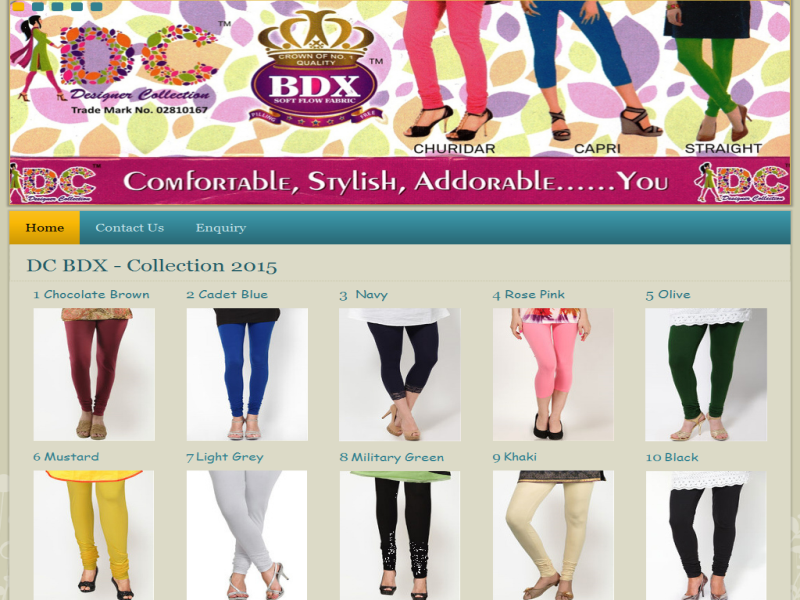
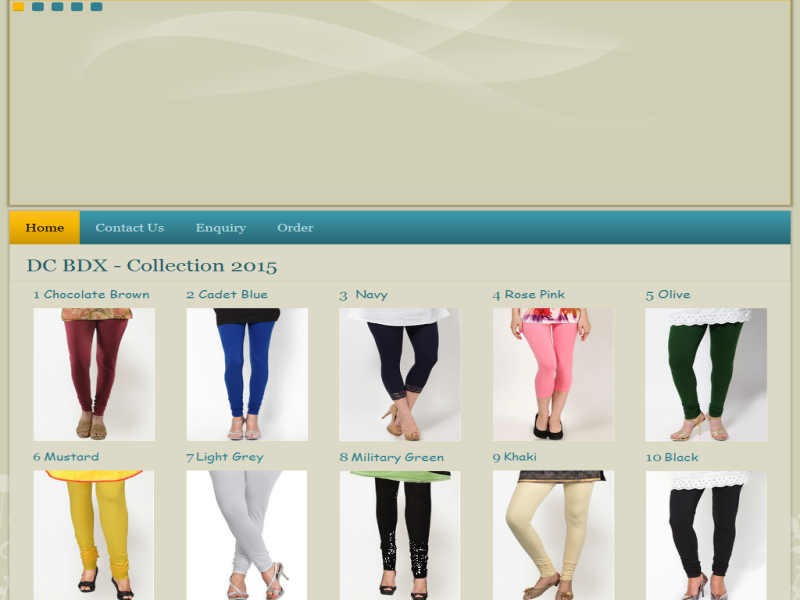
Add Order
Add Order Form

diff --git a/Order.html b/Order.html
@@ -1,40 +1,111 @@
-<!DOCTYPE HTML PUBLIC "-//W3C//DTD HTML 4.01 Transitional//EN">
-<html>
-<head>
-<title>Untitled</title>
-<meta http-equiv="content-type" content="text/html; charset=iso-8859-1">
-<meta name="generator" content="Web Page Maker">
+<!DOCTYPE html>
+<html dir="ltr" lang="en-US"><head><!-- Created by Artisteer v4.1.0.59861 -->
+    <meta charset="utf-8">
+    <title>New Page</title>
+    <meta name="viewport" content="initial-scale = 1.0, maximum-scale = 1.0, user-scalable = no, width = device-width">
+
+    <!--[if lt IE 9]><script src="https://html5shiv.googlecode.com/svn/trunk/html5.js"></script><![endif]-->
+    <link rel="stylesheet" href="style.css" media="screen">
+    <!--[if lte IE 7]><link rel="stylesheet" href="style.ie7.css" media="screen" /><![endif]-->
+    <link rel="stylesheet" href="style.responsive.css" media="all">
+
+
+    <script src="jquery.js"></script>
+    <script src="script.js"></script>
+    <script src="script.responsive.js"></script>
+<meta name="description" content="DCBDXLeggings">
+<meta name="keywords" content="Leggings,Capri,Ankle,Churidar,Straight">
+
+
 </head>
 <body>
-<div id="iFrame1div" style="position:absolute; left:0px; top:0px; z-index:0">
-<table border="0" cellpadding="0" cellspacing="0" width=802>
-<tr><td>
-<iframe name="iFrame1" width="780" height="1061" src="http://goo.gl/forms/PGQ90nuLPQ" scrolling="yes" frameborder="0"></iframe>
+<div id="art-main">
+<header class="art-header">
+<div class="art-slider art-slidecontainerheader" data-width="1000" data-height="350">
+    <div class="art-slider-inner">
+<div class="art-slide-item art-slideheader0">
 
-</td><td align="center" valign="middle" width="22"><img src="images//arrow_up.gif" alt="up" border=0 vspace="5" hspace="3"
-	onMouseDown="esh_iFrame1();bsh_iFrame1(-3,2)" 
-	onMouseUp="esh_iFrame1();bsh_iFrame1(-1,20)" 
-	onMouseOver="bsh_iFrame1(-1,20)" 
-	onMouseOut="esh_iFrame1()"><br>
-<img src="images//arrow_down.gif" alt="down" border=0 vspace="5" hspace="3" 
-	onMouseDown="esh_iFrame1();bsh_iFrame1(3,2)" 
-	onMouseUp="esh_iFrame1();bsh_iFrame1(1,20)" 
-	onMouseOver="bsh_iFrame1(1,20)" 
-	onMouseOut="esh_iFrame1()">
+</div>
+<div class="art-slide-item art-slideheader1">
 
-<script type="text/javascript" language="javascript">
-function bsh_iFrame1(step,time){hs_iFrame1=setInterval("sh_iFrame1("+step+")",time)}
-function esh_iFrame1(){clearInterval(hs_iFrame1)}
-function sh_iFrame1(step)
-{
-  scrollx=iFrame1.document.body.scrollLeft
-  scrolly=iFrame1.document.body.scrollTop
-  scrolly=scrolly+step
-  iFrame1.window.scroll(scrollx,scrolly)
-}
-</script>
-</td></tr></table></div>
+</div>
+<div class="art-slide-item art-slideheader2">
+<div class="art-textblock art-slideheader2-object1982816968" data-left="50%">
+        <div class="art-slideheader2-object1982816968-text-container">
+        <div class="art-slideheader2-object1982816968-text">&nbsp; &nbsp; &nbsp; &nbsp; DC BDX The Crown of No.1 Quality, Comfort &amp; Style... </div>
+    </div>
+    
+</div>
+</div>
+<div class="art-slide-item art-slideheader3">
+<div class="art-textblock art-slideheader3-object1662008962" data-left="50%">
+        <div class="art-slideheader3-object1662008962-text-container">
+        <div class="art-slideheader3-object1662008962-text">&nbsp; &nbsp;Wide Range of Colors,Enable you to enjoy a beautiful leg... &nbsp;<br>&nbsp; &nbsp;silhouette in various situations and style</div>
+    </div>
+    
+</div>
+</div>
+<div class="art-slide-item art-slideheader4">
+<div class="art-textblock art-slideheader4-object1613167590" data-left="50%">
+        <div class="art-slideheader4-object1613167590-text-container">
+        <div class="art-slideheader4-object1613167590-text">&nbsp; &nbsp; &nbsp;A Product of A.C. Textile (INDIA) Trade Mark No.02810167</div>
+    </div>
+    
+</div>
+</div>
+
+    </div>
+</div>
+<div class="art-slidenavigator art-slidenavigatorheader" data-left="0">
+<a href="#" class="art-slidenavigatoritem"></a><a href="#" class="art-slidenavigatoritem"></a><a href="#" class="art-slidenavigatoritem"></a><a href="#" class="art-slidenavigatoritem"></a><a href="#" class="art-slidenavigatoritem"></a>
+</div>
 
 
-</body>
-</html>
+
+    <div class="art-shapes">
+
+            </div>
+
+
+
+
+                
+                    
+</header>
+<div class="art-sheet clearfix">
+<nav class="art-nav">
+    <ul class="art-hmenu"><li><a href="home.html" class="">Home</a></li><li><a href="contacts.html" class="">Contact Us</a></li><li><a href="enquiry.html" class="">Enquiry</a></li><li><a href="order.html" class="active">Order</a></li></ul> 
+    </nav>
+<div class="art-layout-wrapper">
+                <div class="art-content-layout">
+                    <div class="art-content-layout-row">
+                        <div class="art-layout-cell art-content"><article class="art-post art-article">
+                                <h2 class="art-postheader">New Page</h2>
+                                                
+                <div class="art-postcontent art-postcontent-0 clearfix"><p><br/></p></div>
+                                
+                
+
+</article></div>
+                    </div>
+                </div>
+            </div><footer class="art-footer">
+<div class="art-content-layout-wrapper layout-item-0">
+<div class="art-content-layout">
+    <div class="art-content-layout-row">
+    <div class="art-layout-cell layout-item-1" style="width: 100%">
+        <p><br>
+         Copyright © 2015-2016. DC-BDX - All&nbsp;Rights Reserved.</p>
+        <p><br></p>
+    </div>
+    </div>
+</div>
+</div>
+
+</footer>
+
+    </div>
+</div>
+
+
+</body></html>

diff --git a/contacts.html b/contacts.html
@@ -78,7 +78,7 @@
 </header>
 <div class="art-sheet clearfix">
 <nav class="art-nav">
-    <ul class="art-hmenu"><li><a href="home.html" class="">Home</a></li><li><a href="contacts.html" class="active">Contact Us</a></li><li><a href="enquiry.html">Enquiry</a></li></ul> 
+    <ul class="art-hmenu"><li><a href="home.html" class="">Home</a></li><li><a href="contacts.html" class="active">Contact Us</a></li><li><a href="enquiry.html">Enquiry</a></li><li><a href="order.html">Order</a></li></ul> 
     </nav>
 <div class="art-layout-wrapper">
                 <div class="art-content-layout">
@@ -89,9 +89,9 @@
                 <div class="art-postcontent art-postcontent-0 clearfix"><div class="art-content-layout">
     <div class="art-content-layout-row">
     <div class="art-layout-cell layout-item-0" style="width: 100%" >
-        <p><span style="font-family: 'Comic Sans MS'; font-size: 16px; color: #32808F;">We are the Original Manufacture of DC BDX Leggings,&nbsp;</span></p><p><span style="font-family: 'Comic Sans MS'; font-size: 16px; color: #32808F;">Trade Mark Registered No. is 02810157&nbsp;</span></p>
+        <p><span style="font-family: 'Comic Sans MS'; font-size: 16px; color: #32808F;">We are the Original Manufacture of DC BDX Leggings,&nbsp;</span></p><p><span style="font-family: 'Comic Sans MS'; font-size: 16px; color: #32808F;">Trade Mark Registered No. is 02810167&nbsp;</span></p>
          
-        <h3><span style="font-family: 'Comic Sans MS'; font-size: 16px; color: #32808F;">Address :</span></h3><p><span style="font-family: 'Comic Sans MS'; font-size: 16px; color: #32808F;">K-17,&nbsp;</span><span style="font-family: 'Comic Sans MS'; font-size: 16px; color: #32808F;">Amar Colony, Lajpat Nagar</span></p><p><span style="font-family: 'Comic Sans MS'; font-size: 16px; color: #32808F;">Mobile : 0999-099-3560</span></p><p><span style="font-family: 'Comic Sans MS'; font-size: 16px;"><br></span></p><p><span style="font-family: 'Comic Sans MS'; font-size: 16px; color: #32808F;">W: <a href="http://www.dcbdx.in"><span style="color: #32808F;">http://www.dcbdx.in</span></a><br></span></p><p><span style="font-family: 'Comic Sans MS'; font-size: 16px; color: #32808F;">
+        <h3><span style="font-family: 'Comic Sans MS'; font-size: 16px; color: #32808F;">Address :</span></h3><p><span style="font-family: 'Comic Sans MS'; font-size: 16px; color: #32808F;">K-17,&nbsp;</span><span style="font-family: 'Comic Sans MS'; font-size: 16px; color: #32808F;">Amar Colony, Lajpat Nagar 4,&nbsp;</span></p><p><span style="font-family: 'Comic Sans MS'; font-size: 16px; color: #32808F;">Near Kaka Chuley Bhaturey Wala.</span></p><p><span style="font-family: 'Comic Sans MS'; font-size: 16px; color: #32808F;">Mobile : 0999-099-3560</span></p><p><span style="font-family: 'Comic Sans MS'; font-size: 16px;"><br></span></p><p><span style="font-family: 'Comic Sans MS'; font-size: 16px; color: #32808F;">W: <a href="http://www.dcbdx.in"><span style="color: rgb(50, 128, 143); ">http://www.dcbdx.in</span></a><br></span></p><p><span style="font-family: 'Comic Sans MS'; font-size: 16px; color: #32808F;">
          E:&nbsp;<a class="gb_b gb_Na gb_R gb_Ja" href="https://accounts.google.com/SignOutOptions?hl=en&amp;continue=https://www.google.co.in/webhp%3Fei%3DNpnaVer9EYWp0AS8ooOYBQ%26yv%3D2%26authuser%3D1%26rct%3Dj" title="Google Account: dcleggings@gmail.com" aria-haspopup="true" aria-expanded="false" style="color: #000000; text-decoration: none; display: inline-block; vertical-align: middle; border-top-left-radius: 2px 2px; border-top-right-radius: 2px 2px; border-bottom-right-radius: 2px 2px; border-bottom-left-radius: 2px 2px; box-sizing: border-box; height: 30px; width: auto; line-height: 30px; min-width: 30px; opacity: 0.75; overflow-x: hidden; overflow-y: hidden; text-overflow: ellipsis; white-space: nowrap; widows: 1; background-color: #FFFFFF;"><span style="color: #32808F;">dcleggings@gmail.com</span></a></span></p>
     </div>
     </div>

diff --git a/enquiry.html b/enquiry.html
@@ -14,7 +14,7 @@
     <script src="script.js"></script>
     <script src="script.responsive.js"></script>
 <meta name="description" content="DCBDXLeggings">
-<meta name="keywords" content="Leggings,Capri,Ankle,Churidar,Straight">
+<meta name="keywords" content="Leggings,Capri,Ankle,Churidar,Straight,Full Lenght,DC,BDX,dclegging">
 
 
 </head>
@@ -74,7 +74,7 @@
 </header>
 <div class="art-sheet clearfix">
 <nav class="art-nav">
-    <ul class="art-hmenu"><li><a href="home.html" class="">Home</a></li><li><a href="contacts.html" class="">Contact Us</a></li><li><a href="enquiry.html" class="active">Enquiry</a></li></ul> 
+    <ul class="art-hmenu"><li><a href="home.html" class="">Home</a></li><li><a href="contacts.html" class="">Contact Us</a></li><li><a href="enquiry.html" class="active">Enquiry</a></li><li><a href="order.html">Order</a></li></ul> 
     </nav>
 <div class="art-layout-wrapper">
                 <div class="art-content-layout">

diff --git a/home.html b/home.html
@@ -83,7 +83,7 @@
 </header>
 <div class="art-sheet clearfix">
 <nav class="art-nav">
-    <ul class="art-hmenu"><li><a href="home.html" class="active">Home</a></li><li><a href="contacts.html">Contact Us</a></li><li><a href="enquiry.html">Enquiry</a></li></ul> 
+    <ul class="art-hmenu"><li><a href="home.html" class="active">Home</a></li><li><a href="contacts.html">Contact Us</a></li><li><a href="enquiry.html">Enquiry</a></li><li><a href="order.html">Order</a></li></ul> 
     </nav>
 <div class="art-layout-wrapper">
                 <div class="art-content-layout">

diff --git a/index.html b/index.html
@@ -83,7 +83,7 @@
 </header>
 <div class="art-sheet clearfix">
 <nav class="art-nav">
-    <ul class="art-hmenu"><li><a href="home.html" class="active">Home</a></li><li><a href="contacts.html">Contact Us</a></li><li><a href="enquiry.html">Enquiry</a></li></ul> 
+    <ul class="art-hmenu"><li><a href="home.html" class="active">Home</a></li><li><a href="contacts.html">Contact Us</a></li><li><a href="enquiry.html">Enquiry</a></li><li><a href="order.html">Order</a></li></ul> 
     </nav>
 <div class="art-layout-wrapper">
                 <div class="art-content-layout">
